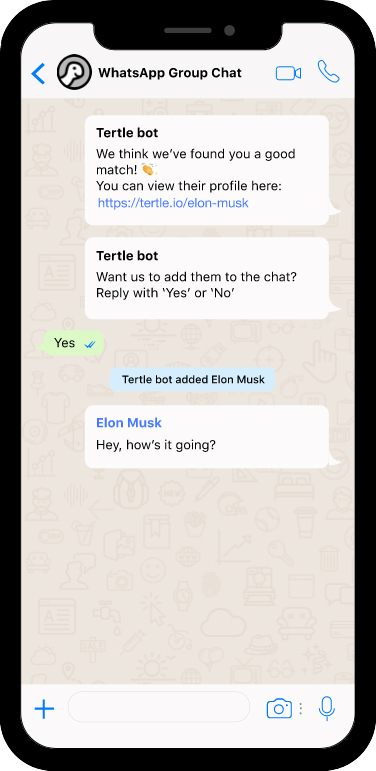
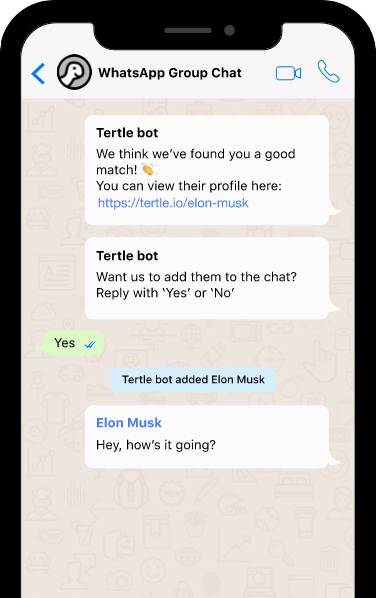
Ipad hero image test bug / breaking layout

diff --git a/public/styles/style.scss b/public/styles/style.scss
@@ -52,10 +52,9 @@
 
 #hero {
     display: flex;
-    z-index: -999;
     justify-content: space-between;
     background: url('../img/bg-pattern.png') no-repeat bottom right;
-    height: 700px;
+    padding-bottom: 0;
     .emoji {
         width: 0.8em; // (!) rem inherit? adjust size depending on text size?/div 
         vertical-align: bottom;
@@ -84,7 +83,7 @@
         }
     }
     .hero-img {
-        width: 400px;
+        margin-bottom: -2px;
     }
     .flex {
 
@@ -103,21 +102,23 @@
 
 #how-it-works, #faq {
     background: #fff url('../img/bg-shadow.png') no-repeat top center;
-    position: relative;
+    display: block;
     h2 {
         width: 100%;
-        margin-bottom: 1.5em;
+        margin-bottom: 1em;
     }
     h3 {
         margin-bottom: 0.6em;
     }
 }
 
+
 #how-it-works .container, #faq .container {
+    display: flex;
     max-width: 500px;
     flex-wrap: wrap;
     .flex {
-        margin-bottom: 3em;
+        margin-bottom: 2em;
     } .flex-0 {
         flex: 1;
         text-align: center;
@@ -148,7 +149,7 @@
     }
 }
 
-#footer .container{
+#footer .container {
     align-content: flex-start;;
     border-top: 1px solid $color-grey1;
     padding: 3em 0;

diff --git a/public/styles/style.css b/public/styles/style.css
@@ -552,12 +552,11 @@ p.info {
   display: -webkit-box;
   display: -ms-flexbox;
   display: flex;
-  z-index: -999;
   -webkit-box-pack: justify;
       -ms-flex-pack: justify;
           justify-content: space-between;
   background: url("../img/bg-pattern.png") no-repeat bottom right;
-  height: 700px;
+  padding-bottom: 0;
 }
 
 #hero .emoji {
@@ -596,7 +595,7 @@ p.info {
 }
 
 #hero .hero-img {
-  width: 400px;
+  margin-bottom: -2px;
 }
 
 #hero .flex-1 {
@@ -619,12 +618,12 @@ p.info {
 
 #how-it-works, #faq {
   background: #fff url("../img/bg-shadow.png") no-repeat top center;
-  position: relative;
+  display: block;
 }
 
 #how-it-works h2, #faq h2 {
   width: 100%;
-  margin-bottom: 1.5em;
+  margin-bottom: 1em;
 }
 
 #how-it-works h3, #faq h3 {
@@ -632,6 +631,9 @@ p.info {
 }
 
 #how-it-works .container, #faq .container {
+  display: -webkit-box;
+  display: -ms-flexbox;
+  display: flex;
   max-width: 500px;
   -ms-flex-wrap: wrap;
       flex-wrap: wrap;
@@ -639,7 +641,7 @@ p.info {
 }
 
 #how-it-works .container .flex, #faq .container .flex {
-  margin-bottom: 3em;
+  margin-bottom: 2em;
 }
 
 #how-it-works .container .flex-0, #faq .container .flex-0 {

diff --git a/public/index.html b/public/index.html
@@ -23,7 +23,7 @@
     <meta name="viewport" content="width=device-width, initial-scale=1.0">
 
     <!-- SEO  & META -->
-    <title>Tertle - Vetted co-founder matching</title>
+    <title>Tertle - Co-founder matcher</title>
     <meta name="description" content="Get matched with like-minded tech co-founders and hatch a startup, together">
 
     <!-- SOCIAL -->
@@ -242,7 +242,7 @@
                 </div>
                 <div class="flex">
                     <h3>Can I ask you some more questions?</h3>
-                    <p>You can contact us via email <a href="mailto:&#102;&#101;&#101;&#100;&#098;&#097;&#099;&#107;&#064;&#116;&#101;&#114;&#116;&#108;&#101;&#046;&#105;&#111;" target="_blank">here</a>. Ask us anything! (seriously, we love hearing from you)</p>
+                    <p>You can contact us via email <a href="mailto:&#102;&#101;&#101;&#100;&#098;&#097;&#099;&#107;&#064;&#116;&#101;&#114;&#116;&#108;&#101;&#046;&#105;&#111;" target="_blank">here</a>. Ask us anything!</p>
                 </div>
             </div>
         </div>

diff --git a/index.js b/index.js
@@ -11,7 +11,7 @@ const csv2Json = require('csvtojson');
 const json2Csv = require('json2csv').parse;
 */
 
-// Serve dynamic crawling
+// Serve dynamic SEO crawling
 app.get('/robots.txt', (req, res) => {
     if (process.env.HEROKU_ENV === 'staging') {
         res.send('*\nDisallow: /');
